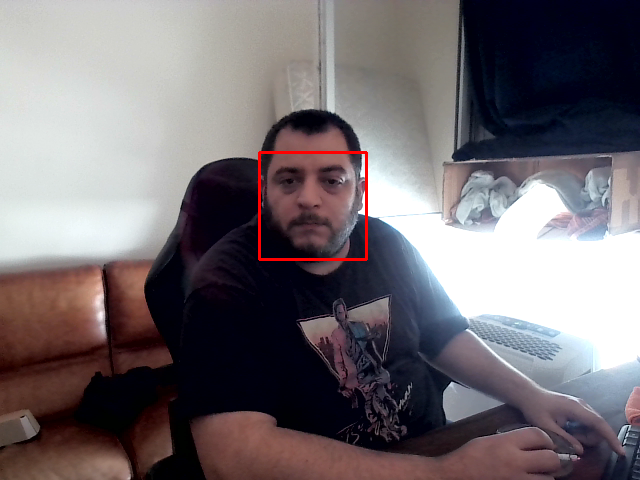
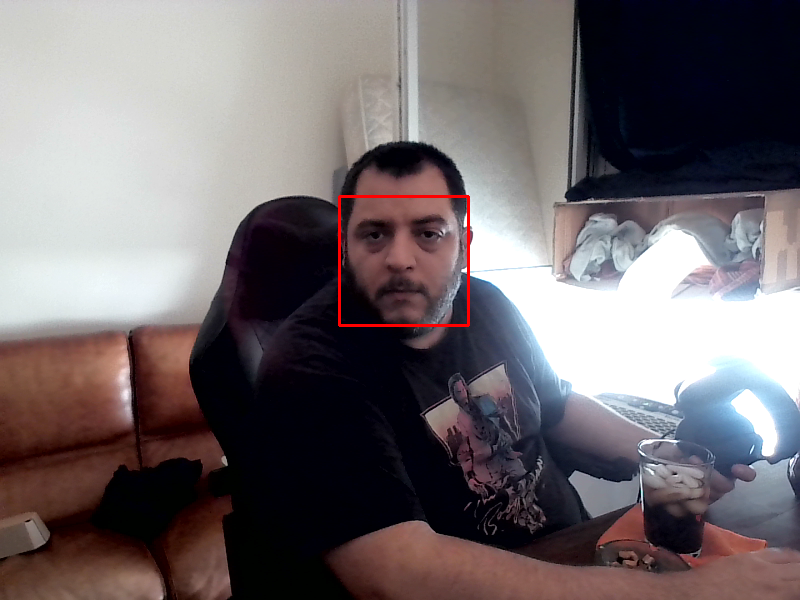
set camera width & height

diff --git a/index.py b/index.py
@@ -29,6 +29,9 @@ if not res["id"]:
 id = res["id"]
 
 video_capture = cv2.VideoCapture(0)
+video_capture.set(cv2.CAP_PROP_FRAME_WIDTH, 800)
+video_capture.set(cv2.CAP_PROP_FRAME_HEIGHT, 600)
+
 
 face_locations = []
 
